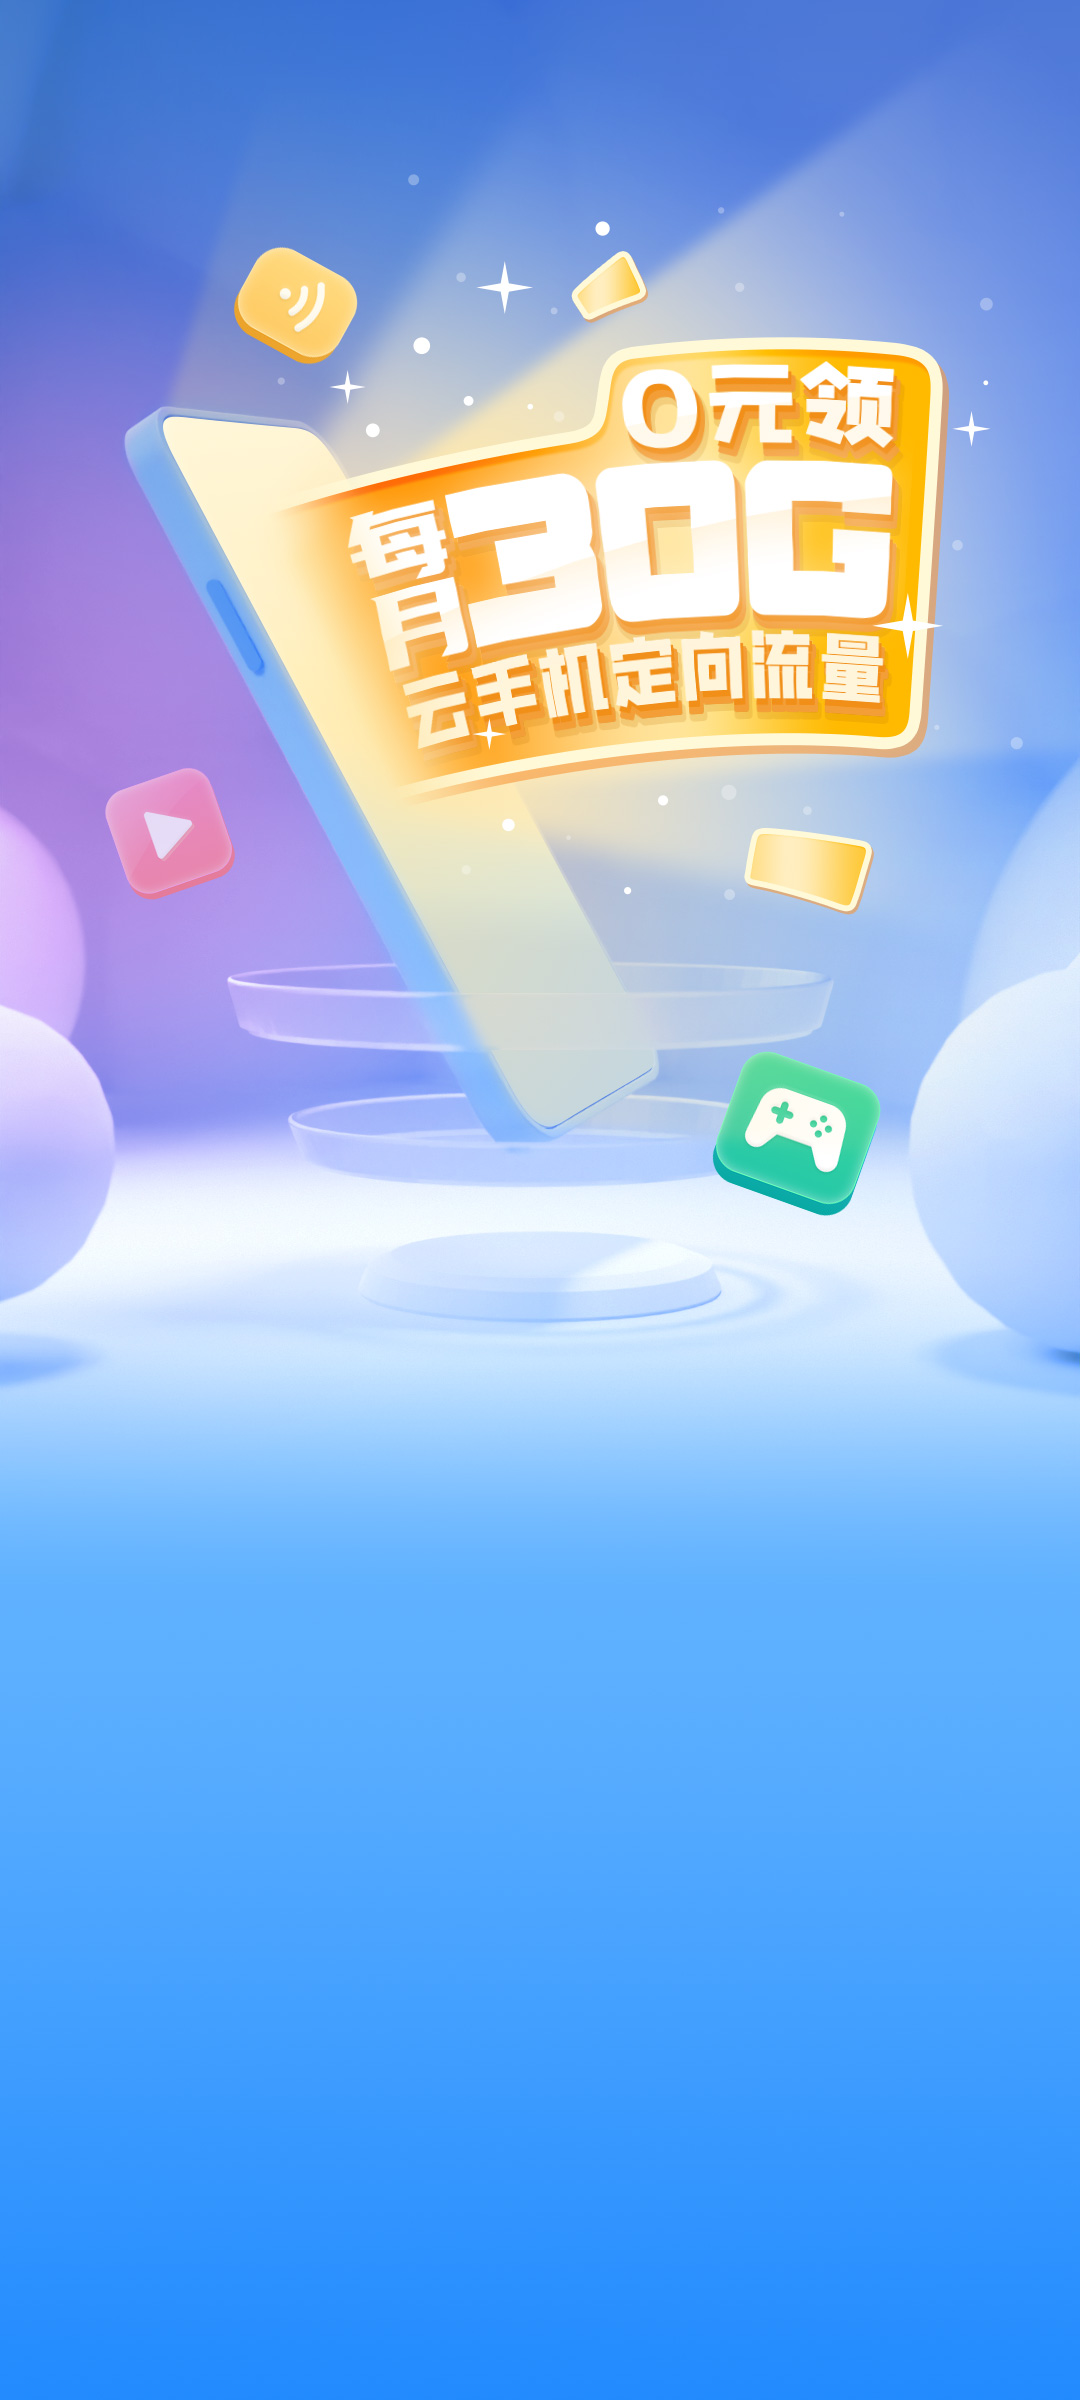
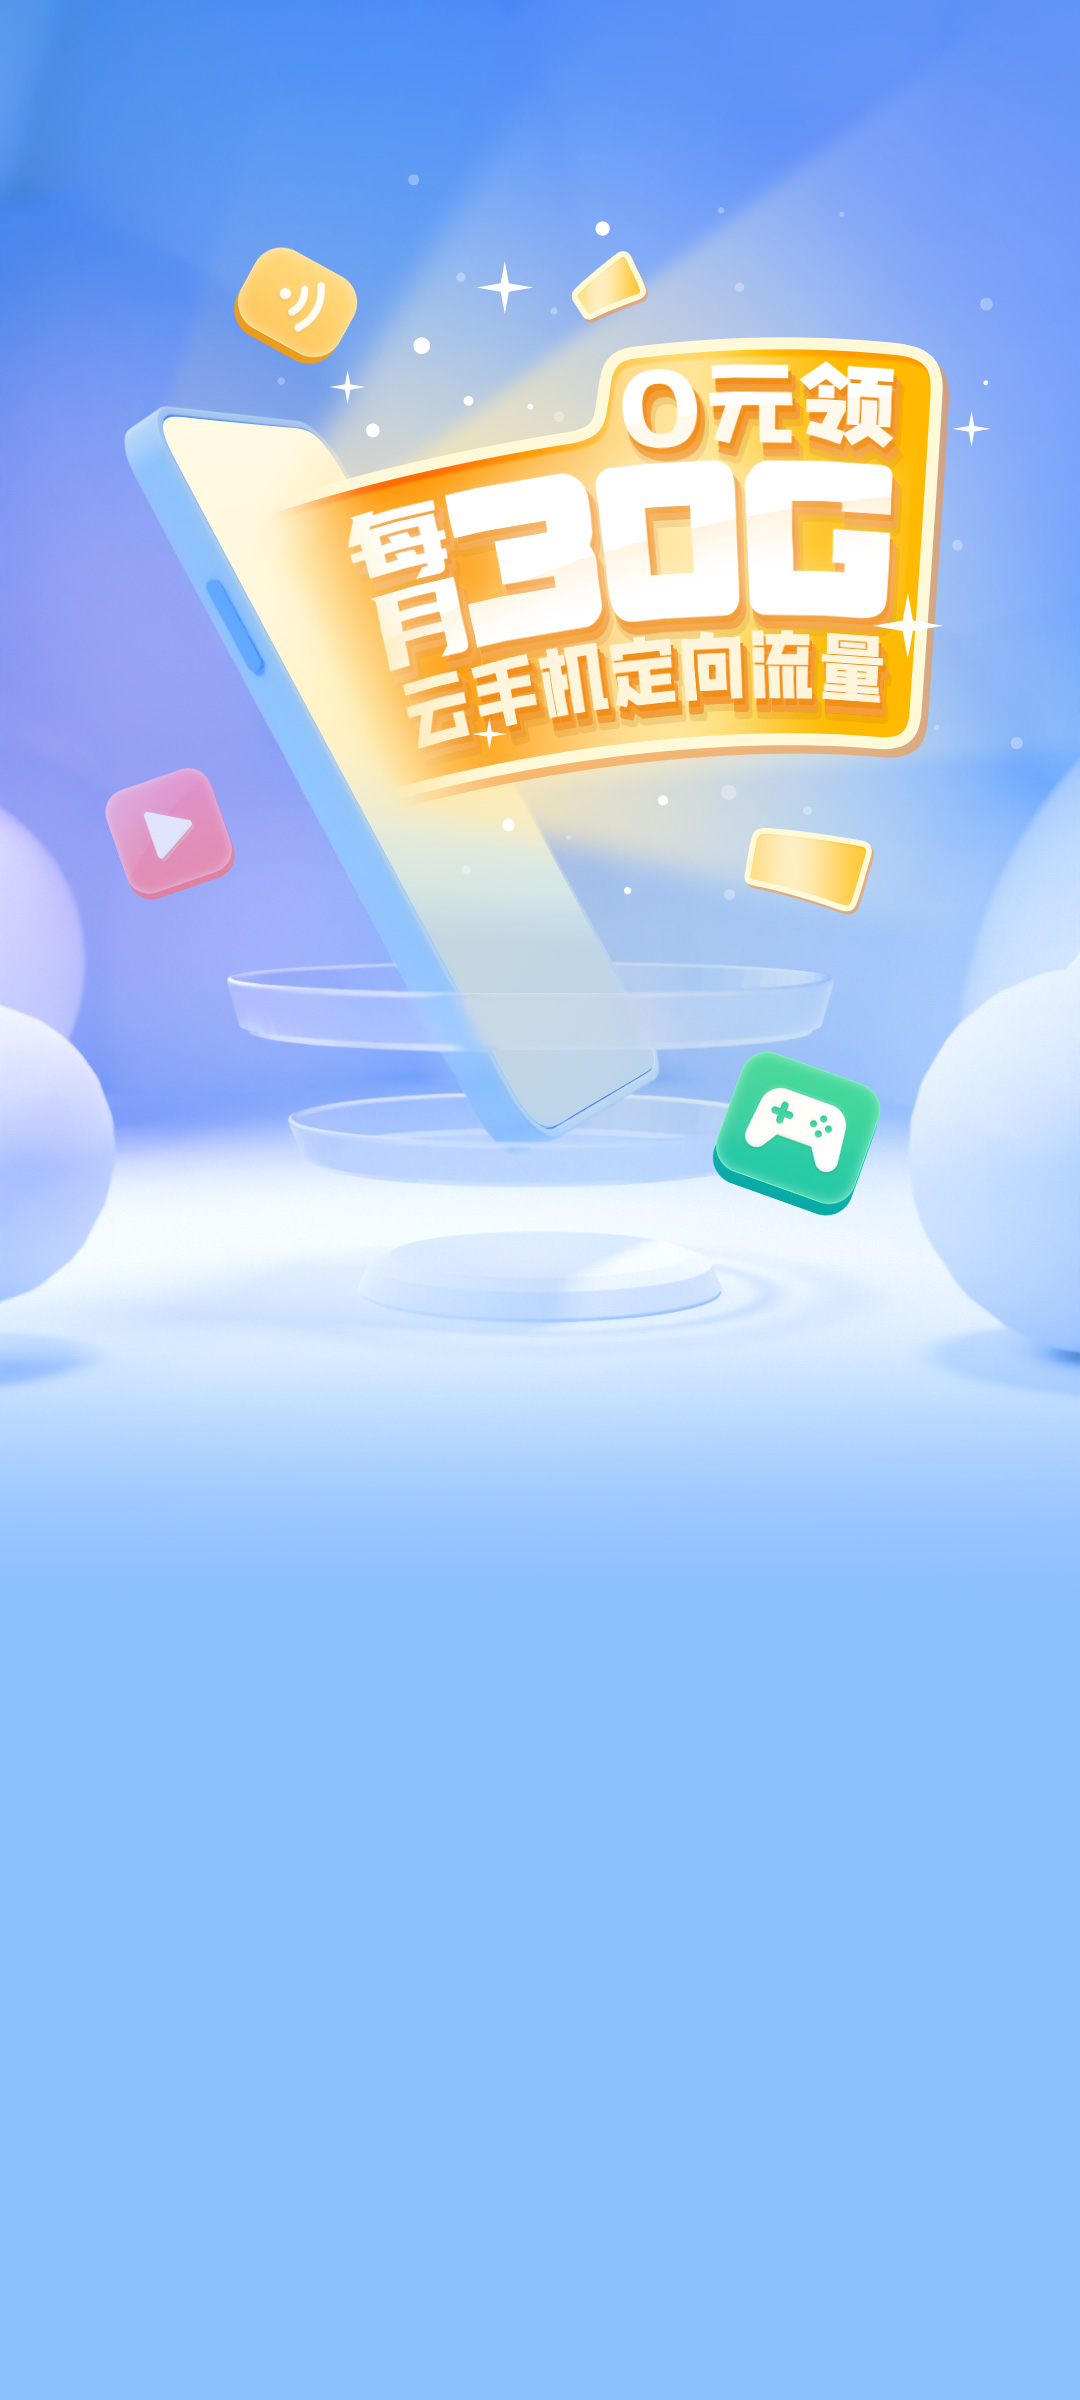
添加埋点，修改最终版样式

diff --git a/src/components/AppOrder.vue b/src/components/AppOrder.vue
@@ -6,7 +6,10 @@
     </div>
     <div class="order-center">
       <div class="order-btn" @click="handleReceive">0元领取</div>
-      <p class="order-info">每月可享30G移动云手机定向流量</p>
+      <p class="order-info">
+        <span>每月可享30G移动云手机定向流量</span>
+        <span v-if="expireTime">，有效期至{{expireTime}}</span>
+      </p>
       <p class="order-info pb16">
         <span>成功领取</span>
         <span class="order-em"> 可在移动云手机APP、H5和微信小程序享受免流服务</span>
@@ -16,9 +19,9 @@
         <div class="order-body">
           <div v-for="item in ruleList" :key="item.id">
             <span class="order-subtitle" v-if="item.type === 'title'">{{item.content}}</span>
-            <div v-for="child in item.content" v-else :key="child">
-              <span class="order-content">{{child}}</span>
-            </div>
+            <div v-for="(child,index) in item.content" v-else :key="child">
+              <span :class="['order-content',index === 1 && item.id===13 && 'order-strong']">{{child}}</span>
+            </div> 
           </div>
         </div>
       </div>
@@ -79,7 +82,8 @@ import {
   checkOrder,
   getSMS,
   smsCodeCheck,
-  getTraffic } from '../api/index';
+  getTraffic,
+  pointReporting} from '../api/index';
 
 import { showFailToast, showSuccessToast,showLoadingToast, closeToast } from 'vant';
 import 'vant/es/toast/style';
@@ -146,7 +150,7 @@ export default {
       },{
         id:13,
         type: 'content',
-        content:['在中国移动2G/3G/4G/5G网络下（不包括手机号码处于国际及港澳台地区漫游状态、手机作为热点、利用手机设置代理服务器或VPN方式、使用CMWAP接入点方式等情况访问APP所产生的流量），下列使用场景优先消耗移动云手机定向流量（简称“免流”或“免流量”）：','在【移动云手机】的APP、H5、微信小程序内：通过“云手机”-“进入云机”进入云手机（云机）桌面后，在云手机内下载和使用各类应用。（“精彩发现”模块、“个人中心”模块和“应用上传”功能不在免流量范围']
+        content:['在中国移动2G/3G/4G/5G网络下（不包括手机号码处于国际及港澳台地区漫游状态、手机作为热点、利用手机设置代理服务器或VPN方式、使用CMWAP接入点方式等情况访问APP所产生的流量），下列使用场景优先消耗移动云手机定向流量（简称“免流”或“免流量”）：','在【移动云手机】的APP、H5、微信小程序内：通过“云手机”-“进入云机”进入云手机（云机）桌面后，在云手机内下载和使用各类应用。（“精彩发现”模块、“个人中心”模块和“应用上传”功能不在免流量范围）']
       },{
         id:14,
         type: 'title',
@@ -204,6 +208,10 @@ export default {
       this.mobilemask = window.sessionStorage.getItem('mobilemask');
       this.mobile = window.sessionStorage.getItem('mobile');
       this.isLogin = window.sessionStorage.getItem('isLogin');
+      pointReporting({},{
+        userAccount: this.mobile,
+        action: '云手机H5免流访问页面'
+      }).then();
       this.checkOrder();
     }
     if (window.location.search.includes('channelSrc=')) {
@@ -241,6 +249,25 @@ export default {
       // 校验token是否有效
       tokenValidate(params).then(res => {
         if (res.data.success) {
+          pointReporting({},{
+            userAccount: res.data.data.msisdn,
+            action: '云手机H5免流访问页面'
+          }).then();
+          pointReporting({},{
+            userAccount: res.data.data.msisdn,
+            action: '云手机H5免流登录成功'
+          }).then();
+          if(type === 'default') {
+            pointReporting({},{
+              userAccount: res.data.data.msisdn,
+              action: '云手机H5免流单点登录成功'
+            }).then();
+          } else {
+            pointReporting({},{
+              userAccount: res.data.data.msisdn,
+              action: '云手机H5免流4G/5G取号登录成功'
+            }).then();
+          }
           this.mobilemask = res.data.data.msisdnmask;
           this.mobile = res.data.data.msisdn;
           this.isLogin = true;
@@ -324,8 +351,18 @@ export default {
       this.isSuccess = false;
       this.isRepeat = false;
       if (this.isLogin) {
+        pointReporting({},{
+          userAccount: this.mobile,
+          action: '云手机H5免流点击领取'
+        }).then();
         checkOrder({telephone:this.mobile}).then(res => {
-          if (res.data.success && res.data.data.status === 'TRUE') {
+          if (res.data.success && (res.data.data.status === 'TRUE' || 
+        res.data.data.status === 'PROCESS' || res.data.data.status === 'CANCELING')) {
+            let expireTime = res.data.data.expireTime.split('');
+            expireTime.splice(4,0,'年');
+            expireTime.splice(7,0,'月')
+            expireTime.push('日');
+            this.expireTime = expireTime.join('');
             this.isOrder = true;
             this.dialogShow = true;
             document.documentElement.style.overflowY = 'hidden';
@@ -355,6 +392,10 @@ export default {
       });
       getTraffic({telephone:this.mobile}).then(res => {
         if (res.data.success) {
+          pointReporting({},{
+            userAccount: this.mobile,
+            action: '云手机H5免流领取成功'
+          }).then();
           closeToast();
           this.dialogShow = true;
           document.documentElement.style.overflowY = 'hidden';
@@ -478,6 +519,19 @@ export default {
           this.smsShow = false;
           document.documentElement.style.overflowY = 'auto';
           let msisdn = res.data.data.msisdn;
+          this.mobile = res.data.data.msisdn;
+          pointReporting({},{
+            userAccount: res.data.data.msisdn,
+            action: '云手机H5免流访问页面'
+          }).then();
+          pointReporting({},{
+            userAccount: res.data.data.msisdn,
+            action: '云手机H5免流登录成功'
+          }).then();
+          pointReporting({},{
+              userAccount: res.data.data.msisdn,
+              action: '云手机H5免流短验登录成功'
+          }).then();
           msisdn = msisdn.split('');
           msisdn.splice(3,4,'****');
           msisdn = msisdn.join('');
@@ -543,7 +597,7 @@ export default {
 .order {
   width: 100%;
   overflow: hidden;
-  background-color: rgb(35,139,254);
+  background-color: rgb(141,192,255);
   background-image: url('../assets/home.jpg');
   background-repeat: no-repeat;
   background-size: 100% auto;

diff --git a/src/components/AppSuccess.vue b/src/components/AppSuccess.vue
@@ -6,7 +6,10 @@
     </div>
     <div class="order-center">
       <div class="order-btn success-btn" @click="handleReceive">立即使用</div>
-      <p class="order-info">每月可享30G移动云手机定向流量</p>
+      <p class="order-info">
+        <span>每月可享30G移动云手机定向流量</span>
+        <span v-if="expireTime">，有效期至{{expireTime}}</span>
+      </p>
       <p class="order-info pb16">
         <span>成功领取</span>
         <span class="order-em"> 可在移动云手机APP、H5和微信小程序享受免流服务</span>
@@ -16,8 +19,8 @@
         <div class="order-body">
           <div v-for="item in ruleList" :key="item.id">
             <span class="order-subtitle" v-if="item.type === 'title'">{{item.content}}</span>
-            <div v-for="child in item.content" v-else :key="child">
-              <span class="order-content">{{child}}</span>
+            <div v-for="(child,index) in item.content" v-else :key="child">
+              <span :class="['order-content',index === 1 && item.id===13 && 'order-strong']">{{child}}</span>
             </div>
           </div>
         </div>
@@ -27,6 +30,7 @@
 </template>
 
 <script>
+import {pointReporting} from '../api/index';
 export default {
   name: 'AppSuccess',
   props: {
@@ -89,7 +93,7 @@ export default {
       },{
         id:13,
         type: 'content',
-        content:['在中国移动2G/3G/4G/5G网络下（不包括手机号码处于国际及港澳台地区漫游状态、手机作为热点、利用手机设置代理服务器或VPN方式、使用CMWAP接入点方式等情况访问APP所产生的流量），下列使用场景优先消耗移动云手机定向流量（简称“免流”或“免流量”）：','在【移动云手机】的APP、H5、微信小程序内：通过“云手机”-“进入云机”进入云手机（云机）桌面后，在云手机内下载和使用各类应用。（“精彩发现”模块、“个人中心”模块和“应用上传”功能不在免流量范围']
+        content:['在中国移动2G/3G/4G/5G网络下（不包括手机号码处于国际及港澳台地区漫游状态、手机作为热点、利用手机设置代理服务器或VPN方式、使用CMWAP接入点方式等情况访问APP所产生的流量），下列使用场景优先消耗移动云手机定向流量（简称“免流”或“免流量”）：','在【移动云手机】的APP、H5、微信小程序内：通过“云手机”-“进入云机”进入云手机（云机）桌面后，在云手机内下载和使用各类应用。（“精彩发现”模块、“个人中心”模块和“应用上传”功能不在免流量范围）']
       },{
         id:14,
         type: 'title',
@@ -109,17 +113,31 @@ export default {
       }],
       mobilemask:'',
       expireTime:'',
+      mobile:'',
       timer:null,
       channelSrc:''
     }
   },
   created:function() {
-    this.mobilemask = window.sessionStorage.getItem('mobilemask');
-    this.expireTime = window.sessionStorage.getItem('expireTime');
-    this.channelSrc = window.sessionStorage.getItem('channelSrc');
+    if(window.sessionStorage.getItem('isLogin')) {
+      this.mobilemask = window.sessionStorage.getItem('mobilemask');
+      this.expireTime = window.sessionStorage.getItem('expireTime');
+      this.channelSrc = window.sessionStorage.getItem('channelSrc');
+      this.mobile = window.sessionStorage.getItem('mobile');
+      pointReporting({},{
+        userAccount: this.mobile,
+        action: '云手机H5免流访问页面'
+      }).then();
+    } else {
+      this.$router.push('/apporder');
+    }
   },
   methods: {
     handleReceive:function() {
+      pointReporting({},{
+          userAccount: this.mobile,
+          action: '云手机H5免流点击使用'
+      }).then();
       let u = navigator.userAgent;
       let isAndroid = u.indexOf('Android') > -1 || u.indexOf('Adr') > -1;
       if(!isAndroid) {
@@ -155,7 +173,7 @@ export default {
 .success {
   width: 100%;
   overflow: hidden;
-  background-color: rgb(35,139,254);
+  background-color: rgb(141,192,255);
   background-image:url("../assets/success.jpg");
   background-repeat: no-repeat;
   background-size:100% auto;

diff --git a/src/api/index.js b/src/api/index.js
@@ -3,7 +3,7 @@ import request from './axios';
 // token校验
 export const tokenValidate = (data) => { 
   return request({
-    url: 'koophone/v1/auth/phone',
+    url: '/apaas/koophone/v1/auth/phone',
     method: 'post',
     data
   })
@@ -11,7 +11,7 @@ export const tokenValidate = (data) => {
 // 签名加密
 export const signEncrypt = (data) => { 
   return request({
-    url: 'koophone/v1/auth/sign',
+    url: '/apaas/koophone/v1/auth/sign',
     method: 'post',
     data
   })
@@ -19,7 +19,7 @@ export const signEncrypt = (data) => {
 // 是否已订购
 export const checkOrder = (data) => { 
   return request({
-    url: 'koophone/v1/order/status',
+    url: '/apaas/koophone/v1/order/status',
     method: 'post',
     data
   })
@@ -27,7 +27,7 @@ export const checkOrder = (data) => {
 // 获取验证码
 export const getSMS = (data) => { 
   return request({
-    url: 'koophone/v1/auth/sendSmsCode',
+    url: '/apaas/koophone/v1/auth/sendSmsCode',
     method: 'post',
     data
   })
@@ -35,7 +35,7 @@ export const getSMS = (data) => {
 // 验证码校验
 export const smsCodeCheck = (data) => { 
   return request({
-    url: 'koophone/v1/auth/login',
+    url: '/apaas/koophone/v1/auth/login',
     method: 'post',
     data
   })
@@ -43,8 +43,17 @@ export const smsCodeCheck = (data) => {
 // 领取流量
 export const getTraffic = (data) => { 
   return request({
-    url: 'koophone/v1/order/add',
+    url: '/apaas/koophone/v1/order/add',
     method: 'post',
+    data
+  })
+};
+// 埋点上报
+export const pointReporting = (headers, data) => { 
+  return request({
+    url: '/cloudphone/bilog/upload',
+    method: 'post',
+    headers,
     data
   })
 };

diff --git a/src/main.js b/src/main.js
@@ -2,17 +2,20 @@ import { createApp } from 'vue'
 
 import App from './App.vue'
 import router from './router' 
-
+import Vuex from 'vuex'
+ 
 import { Field, CellGroup, Toast } from 'vant'
+import store from './store'
 
 import 'vant/lib/index.css'
 import '../src/style.css'
-
 
 const app = createApp(App);
 app.use(Field)
 app.use(CellGroup)
 app.use(Toast)
+app.use(store)
 
 app.use(router)
+app.use(Vuex)
 app.mount('#app')

diff --git a/vue.config.js b/vue.config.js
@@ -26,6 +26,15 @@ module.exports = {
           "^/apaas": "/apaas" // 替换target中的请求地址
         }
       },
+      "/cloudphone": {
+        target: "http://cc-hwy.cmtest.xyz",
+        secure:true,
+        changeOrigin: true,
+        pathRewrite: {
+          // 路径重写，
+          "^/cloudphone": "/cloudphone" // 替换target中的请求地址
+        }
+      }
     }
   }
 };

diff --git a/src/style.css b/src/style.css
@@ -39,9 +39,13 @@
     font-size:0.625rem;
     margin:0;
     text-align: center;
+    padding-bottom: 0.3rem;
+}
+.order-strong {
+    font-weight: 500;
 }
 .order-em {
-    color:#ff0055;
+    color:#e36438;
 }
 .pb16 {
     padding-bottom:1rem;
@@ -80,6 +84,7 @@
     height:100%;
     position: fixed;
     top: 0;
+    left:0;
     z-index:999;
     background-color: rgba(0,0,0,0.6)
 }

diff --git a/src/api/axios.js b/src/api/axios.js
@@ -1,6 +1,5 @@
 import axios from 'axios'
 
 axios.defaults.timeout = 3000;
-axios.defaults.baseURL = "/apaas";
 
 export default axios;

diff --git a/src/store.js b/src/store.js
@@ -1,0 +1,8 @@
+import Vuex from 'vuex'
+
+const store = new Vuex.Store({
+  state: {
+  }
+})
+ 
+export default store
